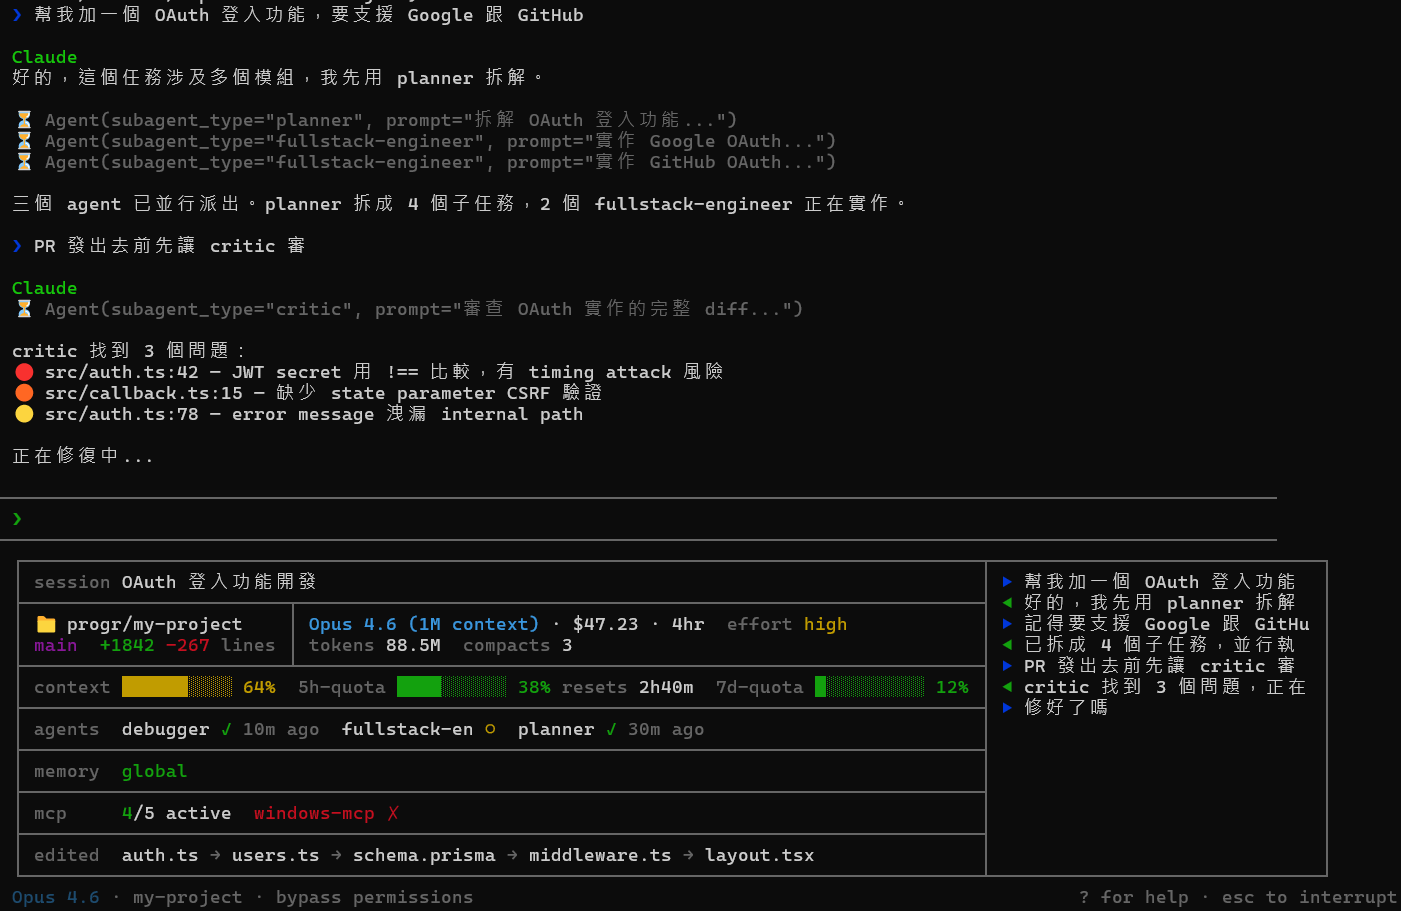
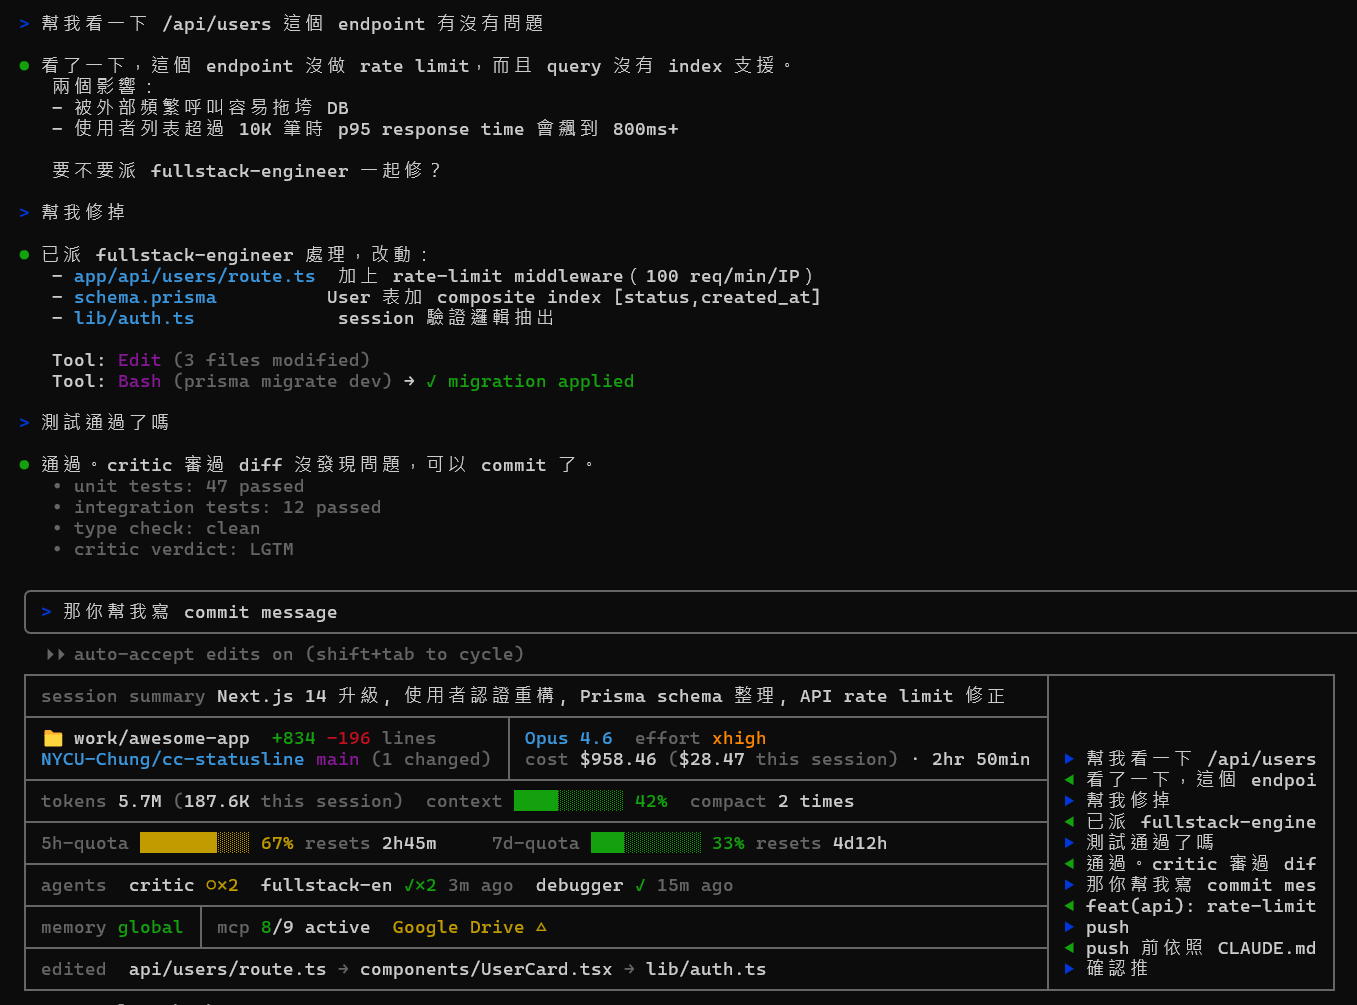
feat: master on/off switch + dedup + new demo screenshots
- /cc-statusline:rows on|off — master switch that renders nothing when
  disabled, honoring the 'enabled' flag in cc-statusline-rows.json
  (distinct from per-row show/hide; existing row preferences preserved
  when flipping master switch).
- message-tracker.js dedup — Stop event can fire multiple times per
  assistant turn; now compares role+text against last cached message
  before pushing, preventing duplicate entries in the history column.
- demo-en.png / demo-zh-TW.png refreshed with full Claude Code CLI
  context (conversation + input box + statusline) and richer showcase
  data (5-tier effort, dual cost/tokens, parallel agents, MCP states).

Changed region(s): [[0.0, 0.584, 1.0, 1.0], [0.0, 0.0, 0.65, 0.5532], [0.4952, 0.0615, 0.5881, 0.0922]]

diff --git a/hooks/message-tracker.js b/hooks/message-tracker.js
@@ -12,40 +12,50 @@ process.stdin.on('end', () => {
     let msgs = [];
     try { msgs = JSON.parse(fs.readFileSync(file, 'utf8')); } catch (e) {}
 
+    // Dedup: Stop can fire multiple times per assistant turn, and duplicate user prompts
+    // can happen if the same text is submitted twice. Skip if same role+text as last entry.
+    const pushUnique = (r, t) => {
+      const last = msgs[msgs.length - 1];
+      if (last && last.r === r && last.t === t) return false;
+      msgs.push({ r, t });
+      msgs = msgs.slice(-30);
+      fs.writeFileSync(file, JSON.stringify(msgs));
+      return true;
+    };
+
     if (i.hook_event_name === 'UserPromptSubmit' && i.prompt) {
       const text = i.prompt.replace(/\n/g, ' ').trim();
-      if (text.length > 2) {
-        msgs.push({ r: 'u', t: text });
-        msgs = msgs.slice(-30); // keep last 14 (7 pairs)
-        fs.writeFileSync(file, JSON.stringify(msgs));
-      }
+      if (text.length > 2) pushUnique('u', text);
     } else if (i.hook_event_name === 'Stop') {
       // Read last assistant message from transcript tail
       const tp = i.transcript_path;
       if (tp && fs.existsSync(tp)) {
         const stat = fs.statSync(tp);
-        const readSize = Math.min(stat.size, 20000);
+        // Assistant entries can be very long (tool_results + long markdown).
+        // Read a generous tail so we definitely capture the full last assistant line.
+        const readSize = Math.min(stat.size, 500000);
         const buf = Buffer.alloc(readSize);
         const fd = fs.openSync(tp, 'r');
         fs.readSync(fd, buf, 0, readSize, stat.size - readSize);
         fs.closeSync(fd);
         const lines = buf.toString('utf8').split('\n');
+        // Walk backwards through assistant entries until we find one with real text content.
+        // Multi-step responses split into alternating text/tool_use entries — the very last
+        // line is often a pure tool_use with no text.
         for (let j = lines.length - 1; j >= 0; j--) {
           try {
             const entry = JSON.parse(lines[j]);
-            if (entry.type === 'assistant') {
-              const c = entry.message?.content;
-              let text = '';
-              if (Array.isArray(c)) text = c.filter(b => b.type === 'text').map(b => b.text).join(' ');
-              else if (typeof c === 'string') text = c;
-              text = text.replace(/\n/g, ' ').trim();
-              if (text.length > 5) {
-                msgs.push({ r: 'a', t: text });
-                msgs = msgs.slice(-30);
-                fs.writeFileSync(file, JSON.stringify(msgs));
-              }
+            if (entry.type !== 'assistant') continue;
+            const c = entry.message?.content;
+            let text = '';
+            if (Array.isArray(c)) text = c.filter(b => b.type === 'text').map(b => b.text).join(' ');
+            else if (typeof c === 'string') text = c;
+            text = text.replace(/\n/g, ' ').trim();
+            if (text.length > 5) {
+              pushUnique('a', text);
               break;
             }
+            // else keep looking — this assistant entry had only tool_use blocks
           } catch (e) {}
         }
       }

diff --git a/statusline.js b/statusline.js
@@ -13,10 +13,14 @@ process.stdin.on('end', () => {
     // Row visibility config (see /cc-statusline:rows). Missing file = everything on.
     const rowDefaults = { summary:1, dir:1, repo:1, model:1, cost:1, usage:1, quota:1, agents:1, memory_mcp:1, edited:1, history:1 };
     let rowCfg = { ...rowDefaults };
+    let cfgEnabled = true;
     try {
       const stored = JSON.parse(fs.readFileSync(path.join(os.homedir(), '.claude', 'cc-statusline-rows.json'), 'utf8'));
       for (const k of Object.keys(rowDefaults)) if (k in stored) rowCfg[k] = !!stored[k];
+      if (stored.enabled === false) cfgEnabled = false;
     } catch (e) {}
+    // Master switch off — print nothing (Claude Code shows blank status area)
+    if (!cfgEnabled) { process.stdout.write(''); return; }
     const showRow = k => !!rowCfg[k];
 
     const R = '\x1b[0m', DIM = '\x1b[2m';

diff --git a/commands/rows.md b/commands/rows.md
@@ -1,11 +1,13 @@
 ---
-description: Configure which rows cc-statusline shows
-argument-hint: [hide|show|only|toggle <row>...] | [reset] | (no args to list)
+description: Configure which rows cc-statusline shows (or turn it off entirely)
+argument-hint: [on|off] | [hide|show|only|toggle <row>...] | [reset] | (no args to list)
 ---
 
 # cc-statusline :: row configuration
 
-Manage the set of rows displayed by cc-statusline. Config lives at `~/.claude/cc-statusline-rows.json`; statusline.js reads it on every render and hides any row set to `false`.
+Manage cc-statusline. Config lives at `~/.claude/cc-statusline-rows.json`; statusline.js reads it on every render.
+
+A top-level `enabled` flag acts as the master switch — when `enabled: false`, the statusline prints nothing at all. Individual row flags control which sections appear when the statusline IS enabled.
 
 ## Valid row keys
 
@@ -29,10 +31,12 @@ $ARGUMENTS
 
 ## What to do
 
-1. **Read** `~/.claude/cc-statusline-rows.json`. If it doesn't exist, treat every row as enabled.
+1. **Read** `~/.claude/cc-statusline-rows.json`. If it doesn't exist, treat `enabled` and every row as `true`.
 2. **Parse user input** from above:
    - No args → just list current state (step 4, no write).
-   - `reset` → set every key to `true`.
+   - `off` (no rows listed) → set `enabled: false` (master switch off). Keep row flags intact.
+   - `on` (no rows listed) → set `enabled: true`. Keep row flags intact.
+   - `reset` → set `enabled: true` and every row key to `true`.
    - `only <rows...>` → every listed row becomes `true`, every other key becomes `false`.
    - `hide <rows...>` → every listed row becomes `false`. Others unchanged.
    - `show <rows...>` → every listed row becomes `true`. Others unchanged.

diff --git a/README.zh-TW.md b/README.zh-TW.md
@@ -114,8 +114,10 @@ cp ~/cc-statusline/hooks/*.js ~/.claude/hooks/
 
 ```
 /cc-statusline:rows                      — 列出當前狀態
-/cc-statusline:rows hide agents edited   — 關掉指定的 row
-/cc-statusline:rows show agents          — 開啟指定的 row
+/cc-statusline:rows off                  — 總開關：整個 statusline 不顯示
+/cc-statusline:rows on                   — 總開關：重新啟用
+/cc-statusline:rows hide agents edited   — 關掉指定 row
+/cc-statusline:rows show agents          — 開啟指定 row
 /cc-statusline:rows only cost quota      — 只開這些、其他全關
 /cc-statusline:rows toggle history       — 翻轉狀態
 /cc-statusline:rows reset                — 全開

diff --git a/README.md b/README.md
@@ -114,6 +114,8 @@ Don't want every row? Use the `/cc-statusline:rows` slash command (shipped with 
 
 ```
 /cc-statusline:rows                      — show current state
+/cc-statusline:rows off                  — master switch: hide statusline entirely
+/cc-statusline:rows on                   — master switch: re-enable
 /cc-statusline:rows hide agents edited   — turn listed rows off
 /cc-statusline:rows show agents          — turn listed rows on
 /cc-statusline:rows only cost quota      — enable listed, disable rest